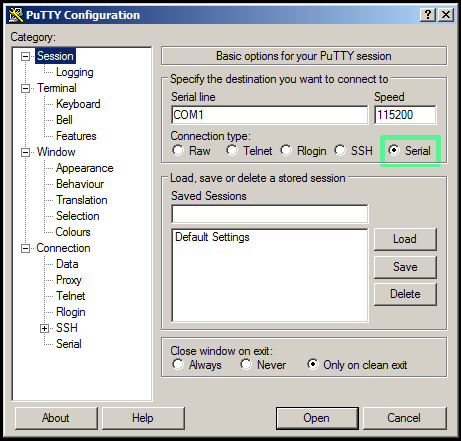
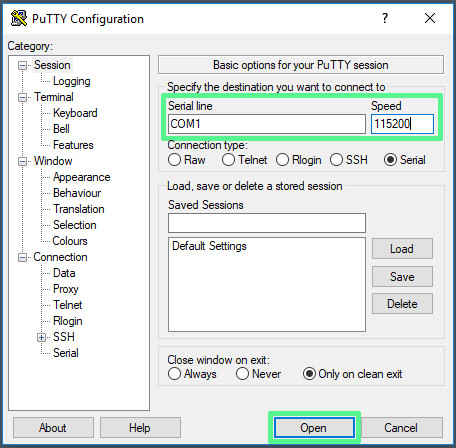
WIP: Add OMV section Update mkdocs material

diff --git a/theme/partials/header.html b/theme/partials/header.html
@@ -3,14 +3,10 @@
     <div class="md-flex">
       <div class="md-flex__cell md-flex__cell--shrink">
         <a href="{{ config.site_url | default(nav.homepage.url, true) }}" title="{{ config.site_name }}" class="md-header-nav__button md-logo">
-          {% if config.extra.logo %}
-            {% if config.extra.logo.icon %}
-              <i class="md-icon">{{ config.extra.logo.icon }}</i>
-            {% else %}
-              <img src="{{ base_url }}/{{ config.extra.logo }}" width="24" height="24">
-            {% endif %}
+          {% if config.theme.logo.icon %}
+            <i class="md-icon">{{ config.theme.logo.icon }}</i>
           {% else %}
-            <i class="md-icon md-icon--home"></i>
+            <img src="{{ base_url }}/{{ config.theme.logo }}" width="24" height="24">
           {% endif %}
         </a>
       </div>
@@ -18,30 +14,19 @@
         <label class="md-icon md-icon--menu md-header-nav__button" for="drawer"></label>
       </div>
       <div class="md-flex__cell md-flex__cell--stretch">
-        <span class="md-flex__ellipsis md-header-nav__title">
+        <div class="md-flex__ellipsis md-header-nav__title" data-md-component="title">
           {% block site_name %}
-            {% if page %}
-              {% for parent in page.ancestors %}
-                <span class="md-header-nav__parent">
-                  {{ parent.title }}
-                </span>
-              {% endfor %}
+            {% if config.site_name == page.title %}
+              {{ config.site_name }}
+            {% else %}
+              <span class="md-header-nav__topic">
+                {{ config.site_name }}
+              </span>
+              <span class="md-header-nav__topic">
+                {{ page.title }}
+              </span>
             {% endif %}
-            {{ page.title | default(config.site_name, true) }}
           {% endblock %}
-        </span>
-      </div>
-      <div class="md-flex__cell md-flex__cell--shrink">
-        <div class="md-header-nav__source">
-          <a href="/download" title="Go to Download" class="md-source">
-            <i class="md-icon" style="font-size: 1.8em; text-align: center;">sd_storage</i>
-            <div class="md-source__repository">
-              Download IMG
-              <ul class="md-source__facts">
-                <li class="md-source__fact">Latest build : 09/11/2017</li>
-              </ul>
-            </div>
-          </a>
         </div>
       </div>
       {% if config.repo_url %}
@@ -52,9 +37,26 @@
         </div>
       {% endif %}
       <div class="md-flex__cell md-flex__cell--shrink">
+        <div class="md-header-nav__source">
+          <a href="/download" title="Go to Download" class="md-source">
+ <div class="md-source__icon" style="vertical-align:middle; display:inline-block; height:100%">
+   <img src="/img/sd.png" style="position:relative; left:10px;">
+</div>
+            <div class="md-source__repository">
+              Download IMG
+              <ul class="md-source__facts">
+                <li class="md-source__fact">Latest build : {{ config.extra.sd_release.latest }}</li>
+              </ul>
+            </div>
+          </a>
+        </div>
+      </div>
+      <div class="md-flex__cell md-flex__cell--shrink">
         {% block search_box %}
-          <label class="md-icon md-icon--search md-header-nav__button" for="search"></label>
-          {% include "partials/search.html" %}
+          {% if "search" in config["plugins"] %}
+            <label class="md-icon md-icon--search md-header-nav__button" for="search"></label>
+            {% include "partials/search.html" %}
+          {% endif %}
         {% endblock %}
       </div>
     </div>

diff --git a/theme/partials/nav.html b/theme/partials/nav.html
@@ -1,0 +1,37 @@
+<nav class="md-nav md-nav--primary" data-md-level="0">
+  <label class="md-nav__title md-nav__title--site" for="drawer">
+    <span class="md-nav__button md-logo">
+      {% if config.theme.logo.icon %}
+        <i class="md-icon">{{ config.theme.logo.icon }}</i>
+      {% else %}
+        <img src="{{ base_url }}/{{ config.theme.logo }}" width="24" height="24">
+      {% endif %}
+    </span>
+    {{ config.site_name }}
+  </label>
+  {% if config.repo_url %}
+    <div class="md-nav__source">
+      {% include "partials/source.html" %}
+    </div>
+  {% endif %}
+  <div class="md-nav__source">
+    <a href="/download" title="Go to Download" class="md-source">
+      <div class="md-source__icon">
+        <img src="/img/sd.png" style="position:relative; left:8px; top:8px">
+      </div>
+      <div class="md-source__repository">
+        Download IMG
+        <ul class="md-source__facts">
+          <li class="md-source__fact">Latest build : {{ config.extra.sd_release.latest }}</li>
+        </ul>
+      </div>
+    </a>
+  </div>
+  <ul class="md-nav__list" data-md-scrollfix>
+    {% for nav_item in nav %}
+      {% set path = "nav-" + loop.index | string %}
+      {% set level = 1 %}
+      {% include "partials/nav-item.html" %}
+    {% endfor %}
+  </ul>
+</nav>

diff --git a/docs/omv.md b/docs/omv.md
@@ -1,7 +1,9 @@
 !!! info
     Wiki edition in progress
 
-## Connect to OpenMediaVault Control Panel
+This is a basic guide to help you setting up Helios4 NAS with [OpenMediaVault](https://www.openmediavault.org/) (**OMV**). OMV offers a large collection of features that we don't cover here. We invite you to look online for the existing OMV guides or go on the [OMV forum](https://forum.openmediavault.org/).
+
+## Connect to OpenMediaVault (OMV) Control Panel
 
 Open your web browser and go to the one of the following addresses :
 
@@ -19,8 +21,71 @@ Open your web browser and go to the one of the following addresses :
 ![OMV Dashboard](/img/omv/dashboard.png)
 *Dashboard View*
 
-## Configure a RAID
+## Wipe Disk (Optional)
+
+If you are using HDD which aren't blank or brand new you might need to wipe them first before being able to setup an RAID array.
+
+> Go to **Physical Disks** menu.
+
+> Select an HDD and click **Wipe**.
+
+!!! note
+    HDD should be device starting with **/dev/sdX**
+
+![OMV HDD Wipe](/img/omv/disk-wipe1.png)
+
+> Choose **Quick** wipe method.
+
+![OMV HDD Wipe](/img/omv/disk-wipe2.png)
+
+> Repeat this step for each HDD you want to use for your RAID array.
+
+
+## Create a RAID array
+
+In this guide we chose to create a RAID10 for the following reasons :
+
+- A
+- B
+- C
+
+You can choose to go for RAID5 or RAID6 but take in consideration that the syncing will take up to 3 times the syncing time of RAID10.
+
+> Go to **Physical Disks** menu.
+
+> Click **Create**.
+
+> Select RAID level and the devices you want to be used for the RAID array.
+
+> Give it a name and press **Create**.
+
+
+![OMV RAID 10](/img/omv/create-raid10.png)
+
+> You can see the ongoing re-syncing process and get a finish estimated time.
+
+![OMV RAID Syncing](/img/omv/syncing-raid10.png)
+
+!!! important
+    While you could carry on with some part of OMV configuration during the RAID re-syncing process, we strongly advice to let this process complete first. You should see the following in the RAID state once re-syncing is complete : **active**.
+
+![OMV RAID Clean](/img/omv/raid10-active.png)
+
+
+!!! info
+    Whenever you change some settings in OMV, the following banner will appear. You can immediately apply the configuration by clicking **Apply** or you can carry on with your configuration and apply the changes at a later stage.
+![OMV Save Settings](/img/omv/save_settings.png)
+
+
 
 ## Create a LVM Logical Volume
 
-## Configure Share drive
+*First you need to install OMV LVM Plugin.*
+
+## Format and Mount Volume
+
+## Create User
+
+## Create Shared Folder
+
+## Configure Windows Share (SMB/CIFS)

diff --git a/docs/download.md b/docs/download.md
@@ -2,10 +2,10 @@
 
 ### Debian Jessie
 
-[![Debian Jessie](/img/os/debian2.png)](https://cdn.kobol.io/files/Helios4_Debian_Jessie_4.4.96.img.xz)<br>
-*Build date : 09/11/1017<br>
-Size : 192.2 MB<br>
-MD5SUM : ccb4f043ac74cd87e2f2ed764f25381d*
+[![Debian Jessie](/img/os/debian2.png)](https://cdn.kobol.io/files/Helios4_Debian_Jessie_4.4.102.img.xz)<br>
+*Build date : 29/11/1017<br>
+Size : 191.8 MB<br>
+MD5SUM : 1234cb83398b3a2b1aa796f607d36a7b*
 
 
 ### Debian Strech
@@ -14,11 +14,11 @@ MD5SUM : ccb4f043ac74cd87e2f2ed764f25381d*
 
 ### OpenMediaVault
 
-[![OMV](/img/os/omv.png)](https://cdn.kobol.io/files/Helios4_Debian_Jessie_4.4.96-OMV_3.0.91.img.xz)<br>
+[![OMV](/img/os/omv.png)](https://cdn.kobol.io/files/Helios4_Debian_Jessie_4.4.102-OMV_3.0.93.img.xz)<br>
 
-*Build date : 09/11/1017<br>
-Size : 273.6 MB<br>
-MD5SUM : db76e9cfaa362b73d8840a0eacaa70c8*
+*Build date : 29/11/1017<br>
+Size : 276.6 MB<br>
+MD5SUM : 89456299a548003d77ff3737db5b2a86*
 
 ### Syncloud
 
@@ -29,5 +29,7 @@ MD5SUM : db76e9cfaa362b73d8840a0eacaa70c8*
 
 Filename | Download | MD5
 ---------|----------|----
+**Helios4_Debian_Jessie_4.4.102.img.xz**<br>Debian Jessie (Kernel 4.4.102)<br>Build date : 29/11/1017<br>Size : 191.8 MB|[Download](https://cdn.kobol.io/files/Helios4_Debian_Jessie_4.4.102.img.xz)|1234cb83398b3a2b1aa796f607d36a7b
+**Helios4_Debian_Jessie_4.4.102-OMV_3.0.93.img.xz**<br>Debian Jessie (Kernel 4.4.102) with OMV 3.0.93<br>Build date : 29/11/1017<br>Size : 276.6 MB|[Download](https://cdn.kobol.io/files/Helios4_Debian_Jessie_4.4.102-OMV_3.0.93.img.xz)|89456299a548003d77ff3737db5b2a86
 **Helios4_Debian_Jessie_4.4.96.img.xz**<br>Debian Jessie (Kernel 4.4.96)<br>Build date : 09/11/1017<br>Size : 192.2 MB|[Download](https://cdn.kobol.io/files/Helios4_Debian_Jessie_4.4.96.img.xz)|ccb4f043ac74cd87e2f2ed764f25381d
 **Helios4_Debian_Jessie_4.4.96-OMV_3.0.91.img.xz**<br>Debian Jessie (Kernel 4.4.96) with OMV 3.0.91<br>Build date : 09/11/1017<br>Size : 273.6 MB|[Download](https://cdn.kobol.io/files/Helios4_Debian_Jessie_4.4.96-OMV_3.0.91.img.xz)|db76e9cfaa362b73d8840a0eacaa70c8

diff --git a/docs/install.md b/docs/install.md
@@ -66,6 +66,9 @@ $ dd bs=4M if=Helios4_Debian_Jessie_4.4.96.img of=/dev/sdX conv=fsync
 
 **Now you can plug-in / power-up the AC adapter.**
 
+!!! warning
+    Always proceed with caution when manipulating 110/220V appliance.
+
 ##  **Step 4** - Connect to Helios4 serial console
 
 ### Under Windows
@@ -73,10 +76,10 @@ $ dd bs=4M if=Helios4_Debian_Jessie_4.4.96.img of=/dev/sdX conv=fsync
 1. [Download PuTTY](https://www.chiark.greenend.org.uk/~sgtatham/putty/latest.html) and install it on your computer.
 
 2. Select connection type **serial**.<br>
-![Putty connect](/img/install/putty_connect.png)
+![Putty connect](/img/install/putty_config.png)
 
 3. Setup serial port settings (Serial line : **COM1** and Speed : **115200**), then press **'Open'**<br>
-![Putty config](/img/install/putty_config.png)
+![Putty config](/img/install/putty_connect.png)
 
 !!! note
     If you computer already has a serial port then COM1 might not be the correct serial line to connect to Helios4. Check this [link](https://tnp.uservoice.com/knowledgebase/articles/172101-determining-the-com-port-of-a-usb-to-serial-adapte) to learn how to determine the right COM port.

diff --git a/docs/kit.md b/docs/kit.md
@@ -8,7 +8,7 @@
 * 2× 70mm PWM ball bearing FAN
 * 4× SATA Data Cable
 * 2× Molex to dual SATA Power Cable
-* AC Adapter (12V/8A) + AC Cable
+* AC/DC Adapter (Input:100-240VAC 50/60Hz, Output: DC 12V/8A) + AC Cable
 
 ![Kit Assembly](/img/kit/assembly_pic1.jpg)
 
@@ -216,7 +216,7 @@
 
 ## What to do next ?
 
-**AWESOME !!! You have completed Helios4 Kit Assembly.**
+AWESOME !!! You have completed Helios4 Kit Assembly.
 
 **Now you can jump to the [install section](/install).**
 
